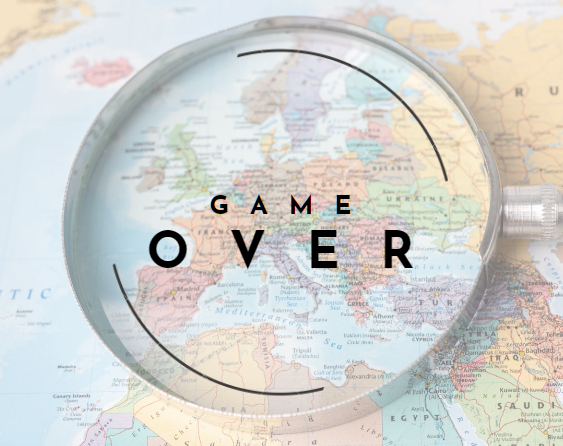
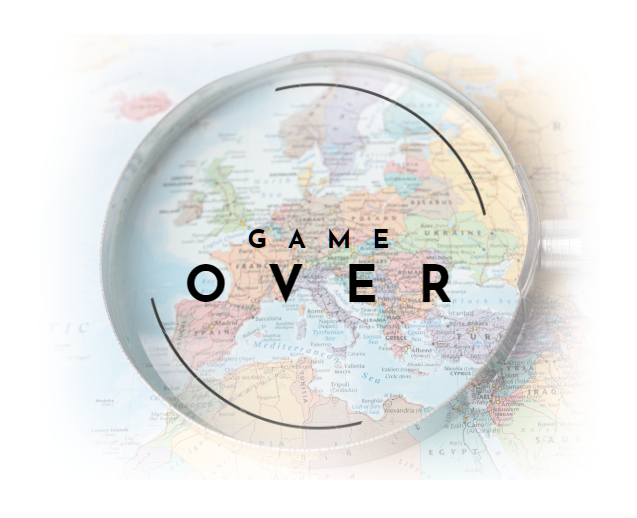
updated small things

diff --git a/src/main/java/Assign32starter/Leaderboard.java b/src/main/java/Assign32starter/Leaderboard.java
@@ -38,8 +38,10 @@ public class Leaderboard {
             double score = player.getDouble("score");
             int rank = player.getInt("rank");
 
-            String playerStr = "" + rank + ") " + score + " --" + name;
-            op.appendOutput(playerStr);
+            //String playerStr = "" + rank + ") " + score + " --" + name;
+
+
+            op.appendOutput(String.format("%d) %.2f -- %s", rank, score, name));
         }
 
 
@@ -66,7 +68,7 @@ public class Leaderboard {
         for(int i = 0; i < 5; i++) {
             JSONObject player= (JSONObject) array.get(i);
             lboard5[i] = player.getString("name");
-            score5[i] = player.getInt("score");
+            score5[i] = player.getDouble("score");
         }
 
         //sort(score5, lboard5);
@@ -103,7 +105,7 @@ public class Leaderboard {
 
 
 
-        JLabel result1 = new JLabel("1) "+ score5[0] + "--" + lboard5[0]);
+        JLabel result1 = new JLabel(String.format("1) %.2f -- %s", score5[0], lboard5[0]));
         result1.setHorizontalAlignment(JLabel.RIGHT);
 
         GridBagConstraints gbc = new GridBagConstraints();
@@ -111,28 +113,28 @@ public class Leaderboard {
         gbc.gridx = 0;
         lb.add(result1, gbc);
 
-        JLabel result2 = new JLabel("2) "+ score5[1] + "--" + lboard5[1]);
+        JLabel result2 = new JLabel(String.format("2) %.2f -- %s", score5[1], lboard5[1]));
         result2.setHorizontalAlignment(JLabel.RIGHT);
         gbc = new GridBagConstraints();
         gbc.gridy = 2;
         gbc.gridx = 0;
         lb.add(result2, gbc);
 
-        JLabel result3 = new JLabel("3) "+ score5[2] + "--" + lboard5[2]);
+        JLabel result3 = new JLabel(String.format("3) %.2f -- %s", score5[2], lboard5[2]));
         result3.setHorizontalAlignment(JLabel.RIGHT);
         gbc = new GridBagConstraints();
         gbc.gridy = 3;
         gbc.gridx = 0;
         lb.add(result3, gbc);
 
-        JLabel result4 = new JLabel("4) "+ score5[3] + "--" + lboard5[3]);
+        JLabel result4 = new JLabel(String.format("4) %.2f -- %s", score5[3], lboard5[3]));
         result4.setHorizontalAlignment(JLabel.RIGHT);
         gbc = new GridBagConstraints();
         gbc.gridy = 4;
         gbc.gridx = 0;
         lb.add(result4, gbc);
 
-        JLabel result5 = new JLabel("5) "+ score5[4] + "--" + lboard5[4]);
+        JLabel result5 = new JLabel(String.format("5) %.2f -- %s", score5[4], lboard5[4]));
         result5.setHorizontalAlignment(JLabel.RIGHT);
         gbc = new GridBagConstraints();
         gbc.gridy = 5;

diff --git a/src/main/java/Assign32starter/SockServer.java b/src/main/java/Assign32starter/SockServer.java
@@ -261,7 +261,7 @@ public class SockServer {
 							double score2 = Double.parseDouble(score);
 							if (leaderBoards.get(name) != null) {
 								if (score2 > Double.parseDouble(leaderBoards.get(name))) {
-									leaderBoards.put(name, String.valueOf(score));
+									leaderBoards.put(name, String.valueOf(score2));
 									writeJSON();
 									System.out.println("Updated leaders.json with new high score");
 								}
@@ -514,7 +514,7 @@ public class SockServer {
 			players = mapper.readValue(fileObj, new TypeReference<List<Player>>() {
 			});
 			for (Player i : players) {
-				leaderBoards.put(i.getName(), String.valueOf(i.getScore()));
+				leaderBoards.put(i.getName(), i.getScore());
 			}
 		} catch (Exception e) {
 			e.printStackTrace();
@@ -563,6 +563,7 @@ public class SockServer {
 			JSONObject p = new JSONObject();
 			String name = sorted.get(i);
 			double score = Double.parseDouble(leaderBoards.get(name));
+			System.out.println("putting " + leaderBoards.get(name) + "into jsonarray");
 			p.put("name", name);
 			p.put("score", score);
 			p.put("rank", i + 1);

diff --git a/src/main/java/Assign32starter/Response.java b/src/main/java/Assign32starter/Response.java
@@ -91,7 +91,8 @@ public class Response {
                 response.put("input", "quit2");
                 return response;
             } else if (type.equals("ok")) {
-                JOptionPane.showMessageDialog(null, "Time ran out. Your score: " + getScore(), "Game Over", JOptionPane.INFORMATION_MESSAGE);
+                double calculatedScore = Double.parseDouble(calculateScore(json.getInt("time")));
+                JOptionPane.showMessageDialog(null, String.format("Time ran out. Points: %d -- Calculated score: %.2f", getScore(), calculatedScore), "Game Over", JOptionPane.INFORMATION_MESSAGE);
                 System.out.println("sending score...");
                 ImageIcon img = readImg(json);
                 picPanel.insertImageI(0,0,img);

diff --git a/src/main/java/Assign32starter/OutputPanel.java b/src/main/java/Assign32starter/OutputPanel.java
@@ -65,14 +65,14 @@ public class OutputPanel extends JPanel {
     GridBagConstraints c = new GridBagConstraints();
 
 
-    this.setBackground(Color.black);
+    this.setBackground(Color.WHITE);
     c = new GridBagConstraints();
     c.fill = GridBagConstraints.HORIZONTAL;
     c.gridx = 0;
     c.gridy = 0;
     c.weightx = 0.3;
     add(this.pointsLabel, c);
-    pointsLabel.setForeground(Color.white);
+    pointsLabel.setForeground(Color.BLACK);
     pointsLabel.setFont(new Font("Arial", Font.BOLD, 28));
     c = new GridBagConstraints();
     c.fill = GridBagConstraints.BOTH;

diff --git a/src/main/java/Assign32starter/Player.java b/src/main/java/Assign32starter/Player.java
@@ -4,12 +4,12 @@ public class Player {
 
     private String name;
 
-    private double score;
+    private String score;
 
     Player() {
     }
 
-    Player(String name, int score) {
+    Player(String name, String score) {
         this.score = score;
         this.name = name;
     }
@@ -22,10 +22,10 @@ public class Player {
         this.name = name;
     }
 
-    public double getScore() {
+    public String getScore() {
         return this.score;
     }
-    public void setScore(int score) {
+    public void setScore(String score) {
         this.score = score;
     }
 

diff --git a/src/main/java/Assign32starter/ClientGui.java b/src/main/java/Assign32starter/ClientGui.java
@@ -61,9 +61,9 @@ public class ClientGui implements Assign32starter.OutputPanel.EventHandlers {
 		gameStarted = false;
 
 		frame = new JFrame("Name The Place 2024!");
-		frame.getContentPane().setBackground(Color.BLACK);
+		frame.getContentPane().setBackground(Color.WHITE);
 		frame.setLayout(new GridBagLayout());
-		frame.setMinimumSize(new Dimension(563, 700));
+		frame.setMinimumSize(new Dimension(600, 750));
 		frame.setDefaultCloseOperation(WindowConstants.DISPOSE_ON_CLOSE);
 
 
